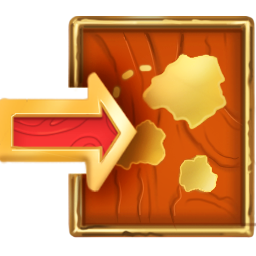
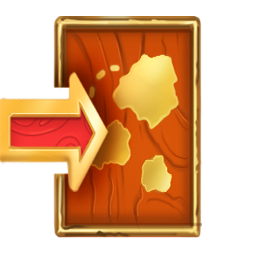
Added paranoid autoselect all option. Added new UI stone and exit-to-map symbol. Hide navigation is now on by default. Options button now shows up only in developer mode. Added new spell tiles. Updated main menu video. Small update to credits.

diff --git a/win/win32/winclisrv/GnollHackClient/GnollHackClient/Pages/Game/GameMenuPage.xaml b/win/win32/winclisrv/GnollHackClient/GnollHackClient/Pages/Game/GameMenuPage.xaml
@@ -26,13 +26,17 @@
                                         HorizontalOptions="Center" VerticalOptions="FillAndExpand"  Clicked="btnBackToGame_Clicked" />
                                 </Grid>
                             </ViewCell>
+                        </TableSection>
+                        <TableSection x:Name="OptionsSection">
                             <ViewCell>
                                 <Grid WidthRequest="320" HorizontalOptions="Center">
                                     <ff:CachedImage Source="resource://GnollHackClient.Assets.button_normal.png" WidthRequest="320" HorizontalOptions="Center" VerticalOptions="FillAndExpand" Aspect="Fill" />
                                     <Button x:Name="btnOptions" WidthRequest="320" FontFamily="Diablo" Text="Options" BackgroundColor="Transparent" TextColor="White"
-                                    HorizontalOptions="Fill" VerticalOptions="FillAndExpand"  Clicked="btnOptions_Clicked" />
+                                HorizontalOptions="Fill" VerticalOptions="FillAndExpand"  Clicked="btnOptions_Clicked" />
                                 </Grid>
                             </ViewCell>
+                        </TableSection>
+                        <TableSection x:Name="BaseSection2">
                             <ViewCell>
                                 <Grid WidthRequest="320" HorizontalOptions="Center">
                                     <ff:CachedImage Source="resource://GnollHackClient.Assets.button_normal.png" WidthRequest="320" HorizontalOptions="Center" VerticalOptions="FillAndExpand" Aspect="Fill" />

diff --git a/src/objects.c b/src/objects.c
@@ -2898,7 +2898,7 @@ SPELL("detect food",     "cyan", None, None, "Detects the location of all comest
 SPELL("clairvoyance",    "dark blue", None, None, "Grants clairvoyance",
       P_DIVINATION_SPELL,         4,   3,             0, 2, 16, A_MAX_INT_WIS_CHA, 0, 0, 100, 0, 1, NODIR, NODIR_NONE, 0, 0, 0, 0, 0, 0, 0, S1_NO_SOMATIC_COMPONENT, S2_NONE, ALL_TARGETS, AD_NONE, CLR_BLUE, OBJECT_SOUNDSET_SPELLBOOK, O1_NONE, O2_NONE, O3_NONE, O4_NONE, O5_NONE, O6_NONE),
 SPELL("detect unseen",   "violet", None, None, "Enables the caster to see invisible monsters and secret doors",
-      P_DIVINATION_SPELL,         4,   4,             0, 3, 24, A_MAX_INT_WIS_CHA, 0, 0, 100, 0, 1, NODIR, NODIR_NONE, 0, 0, 0, 0, 5, 10, 100, S1_NO_SOMATIC_COMPONENT, S2_NONE, ALL_TARGETS, AD_NONE, CLR_MAGENTA, OBJECT_SOUNDSET_SPELLBOOK, O1_NONE, O2_NONE, O3_NONE, O4_NONE, O5_NONE, O6_NONE),
+      P_DIVINATION_SPELL,         4,   4,             0, 3, 24, A_MAX_INT_WIS_CHA, 0, 0, 100, 0, 1, NODIR, NODIR_NONE, 0, 0, 0, 0, 5, 10, 100, S1_NO_SOMATIC_COMPONENT, S2_NONE, ALL_TARGETS, AD_NONE, CLR_MAGENTA, OBJECT_SOUNDSET_SPELLBOOK, O1_NONE, O2_NONE, O3_NONE, O4_NONE, O5_USES_SPELL_TILE, O6_NONE),
 SPELL("detect treasure",  "gray", None, None, "The caster senses the location of all objects on the level",
       P_DIVINATION_SPELL,         4,   5,             0, 3, 24, A_MAX_INT_WIS_CHA, 0, 0, 100, 0, 1, NODIR, NODIR_NONE, 0, 0, 0, 0, 0, 0, 0, S1_NO_SOMATIC_COMPONENT, S2_NONE, ALL_TARGETS, AD_NONE, CLR_GRAY, OBJECT_SOUNDSET_SPELLBOOK, O1_NONE, O2_NONE, O3_NONE, O4_NONE, O5_NONE, O6_NONE),
 SPELL("identify",         "bronze-plated", None, None, "Identifies an item",
@@ -2966,7 +2966,7 @@ SPELL("cure sickness",   "indigo", None, None, "Cures sickness, terminal illness
 SPELL("cure petrification",   "runic", None, None, "Cures petrification",
       P_HEALING_SPELL,            5,  5,             0, 4, 30, A_WIS, 5, 0, 100, 0, 1, IMMEDIATE, IMMEDIATE_NONE, 0, 0, 0, 0, 0, 0, 0, S1_NO_SOMATIC_COMPONENT, S2_NONE, ALL_TARGETS, AD_HEAL, CLR_BROWN, OBJECT_SOUNDSET_SPELLBOOK, O1_NONE, O2_NONE, O3_NONE, O4_NONE, O5_USES_SPELL_TILE, O6_NONE),
 SPELL("cure blindness",  "yellow", None, None, "Cures blindness",
-      P_HEALING_SPELL,            5,  2,             0, 0,  8, A_WIS, 5, 0, 100, 0, 1, IMMEDIATE, IMMEDIATE_NONE, 0, 0, 0, 0, 0, 0, 0, S1_NO_SOMATIC_COMPONENT, S2_NONE, ALL_TARGETS, AD_HEAL, CLR_YELLOW, OBJECT_SOUNDSET_SPELLBOOK, O1_NONE, O2_NONE, O3_NONE, O4_NONE, O5_NONE, O6_NONE),
+      P_HEALING_SPELL,            5,  2,             0, 0,  8, A_WIS, 5, 0, 100, 0, 1, IMMEDIATE, IMMEDIATE_NONE, 0, 0, 0, 0, 0, 0, 0, S1_NO_SOMATIC_COMPONENT, S2_NONE, ALL_TARGETS, AD_HEAL, CLR_YELLOW, OBJECT_SOUNDSET_SPELLBOOK, O1_NONE, O2_NONE, O3_NONE, O4_NONE, O5_USES_SPELL_TILE, O6_NONE),
 SPELL("minor healing",         "white", None, None, "Heals a target for 2d6 hit points",
       P_HEALING_SPELL,            5,  1,             2, -1, 3, A_WIS, 5, 0, 50, 0, 1, IMMEDIATE, IMMEDIATE_NONE, 0, 2, 6, 0, 0, 0, 0, S1_NO_SOMATIC_COMPONENT | S1_DOES_NOT_TAKE_A_TURN, S2_NONE, ALL_TARGETS, AD_HEAL, CLR_WHITE, OBJECT_SOUNDSET_SPELLBOOK, O1_NONE, O2_NONE, O3_NONE, O4_NONE, O5_USES_SPELL_TILE, O6_NONE),
 SPELL("healing",         "white", None, None, "Heals a target for 6d6 hit points",

diff --git a/win/win32/winclisrv/GnollHackClient/GnollHackClient/Pages/Game/GameMenuPage.xaml.cs b/win/win32/winclisrv/GnollHackClient/GnollHackClient/Pages/Game/GameMenuPage.xaml.cs
@@ -16,6 +16,7 @@ namespace GnollHackClient.Pages.Game
     {
         private GamePage _gamePage;
         private TableSection _developerSection;
+        private TableSection _optionsSection;
 
         public GameMenuPage(GamePage gamePage)
         {
@@ -23,8 +24,12 @@ namespace GnollHackClient.Pages.Game
 
             _gamePage = gamePage;
             _developerSection = DeveloperSection;
+            _optionsSection = OptionsSection;
             if (!App.DeveloperMode)
+            {
+                GameTableView.Root.Remove(_optionsSection);
                 GameTableView.Root.Remove(_developerSection);
+            }
         }
 
         private async void btnSave_Clicked(object sender, EventArgs e)
@@ -83,8 +88,12 @@ namespace GnollHackClient.Pages.Game
         {
             App.BackButtonPressed += BackButtonPressed;
             MainLayout.IsEnabled = true;
+            if (App.DeveloperMode && !GameTableView.Root.Contains(_optionsSection))
+                GameTableView.Root.Insert(1, _optionsSection);
+            if (!App.DeveloperMode && GameTableView.Root.Contains(_optionsSection))
+                GameTableView.Root.Remove(_optionsSection);
             if (App.DeveloperMode && !GameTableView.Root.Contains(_developerSection))
-                GameTableView.Root.Insert(1, _developerSection);
+                GameTableView.Root.Insert(3, _developerSection);
             if (!App.DeveloperMode && GameTableView.Root.Contains(_developerSection))
                 GameTableView.Root.Remove(_developerSection);
         }

diff --git a/win/win32/winclisrv/GnollHackClient/GnollHackClient/Pages/Game/SettingsPage.xaml.cs b/win/win32/winclisrv/GnollHackClient/GnollHackClient/Pages/Game/SettingsPage.xaml.cs
@@ -184,7 +184,7 @@ namespace GnollHackClient.Pages.Game
             App.BackButtonPressed += BackButtonPressed;
 
             int cursor = 0, graphics = 0, maprefresh = (int)ClientUtils.GetDefaultMapFPS(), msgnum = 0, petrows = 0;
-            bool mem = false, fps = false, gpu = GHConstants.IsGPUDefault, navbar = false, devmode = false, hpbars = false, statusbar = GHConstants.IsDefaultStatusBarClassic, pets = true, orbs = true, orbmaxhp = false, orbmaxmana = false, mapgrid = false, playermark = false, monstertargeting = false, walkarrows = true;
+            bool mem = false, fps = false, gpu = GHConstants.IsGPUDefault, navbar = GHConstants.DefaultHideNavigation, devmode = false, hpbars = false, statusbar = GHConstants.IsDefaultStatusBarClassic, pets = true, orbs = true, orbmaxhp = false, orbmaxmana = false, mapgrid = false, playermark = false, monstertargeting = false, walkarrows = true;
             bool forcemaxmsg = false, showexstatus = false, noclipmode = GHConstants.DefaultMapNoClipMode;
             //bool altnoclipmode = GHConstants.DefaultMapAlternateNoClipMode, zoomchangecenter = GHConstants.DefaultZoomChangeCenterMode;
             float generalVolume, musicVolume, ambientVolume, dialogueVolume, effectsVolume, UIVolume;

diff --git a/src/options.c b/src/options.c
@@ -829,7 +829,7 @@ initoptions_init()
     flags.end_own = FALSE;
     flags.end_top = 3;
     flags.end_around = 2;
-    flags.paranoia_bits = PARANOID_PRAY; /* old prayconfirm=TRUE */
+    flags.paranoia_bits = PARANOID_PRAY | PARANOID_AUTOALL; /* old prayconfirm=TRUE */
     flags.runmode = RUN_LEAP;
     iflags.msg_history = 20;
     /* msg_window has conflicting defaults for multi-interface binary */
@@ -1484,6 +1484,8 @@ STATIC_VAR const struct paranoia_opts {
       "yes vs y to enter a pool of water or lava" },
     { PARANOID_TRAP, "trap", 2, (const char*)0, 0,
       "yes vs y to enter into a trap" },
+    { PARANOID_AUTOALL, "autoall", 2, (const char*)0, 0,
+      "y to select all items" },
       /* for config file parsing; interactive menu skips these */
     { 0, "none", 4, 0, 0, 0 }, /* require full word match */
     { ~0, "all", 3, 0, 0, 0 }, /* ditto */

diff --git a/src/pickup.c b/src/pickup.c
@@ -3565,11 +3565,23 @@ struct obj* other_container;
                            mflags, &pick_list, PICK_ANY);
         if (!n)
             return 0;
-        for (i = 0; i < n; i++) {
+
+        for (i = 0; i < n; i++) 
+        {
             if (pick_list[i].item.a_int == 'A')
+            {
+                if (ParanoidAutoSelectAll)
+                {
+                    if (yn_query_ex(ATR_NONE, CLR_MSG_WARNING, "All Items Selected", "Are you sure to select all items?") != 'y')
+                        return 0;
+                }
+
                 loot_everything = TRUE;
+            }
             else if (pick_list[i].item.a_int == ALL_TYPES_SELECTED)
+            {
                 all_categories = TRUE;
+            }
             else
                 add_valid_menu_class(pick_list[i].item.a_int);
         }

diff --git a/include/flag.h b/include/flag.h
@@ -168,6 +168,7 @@ struct flag {
 #define PARANOID_WERECHANGE 0x0100
 #define PARANOID_WATER      0x0200
 #define PARANOID_TRAP       0x0400
+#define PARANOID_AUTOALL    0x0800
     int pickup_burden; /* maximum burden before prompt */
     int pile_limit;    /* controls feedback when walking over objects */
     char inv_order[MAX_OBJECT_CLASSES];
@@ -604,6 +605,8 @@ enum runmode_types {
 #define ParanoidWater ((flags.paranoia_bits & PARANOID_WATER) != 0)
 /* trap: accepting entry into a trap */
 #define ParanoidTrap ((flags.paranoia_bits & PARANOID_TRAP) != 0)
+/* auto-select all: accepting auto-select all */
+#define ParanoidAutoSelectAll ((flags.paranoia_bits & PARANOID_AUTOALL) != 0)
 
 /* command parsing, mainly dealing with number_pad handling;
    not saved and restored */

diff --git a/win/win32/winclisrv/GnollHackClient/GnollHackClient/App.xaml.cs b/win/win32/winclisrv/GnollHackClient/GnollHackClient/App.xaml.cs
@@ -38,7 +38,7 @@ namespace GnollHackClient
             var mainPage = new MainPage();
             var navPage = new NavigationPage(mainPage);
             MainPage = navPage;
-            App.HideAndroidNavigatioBar = Preferences.Get("HideAndroidNavigationBar", false);
+            App.HideAndroidNavigatioBar = Preferences.Get("HideAndroidNavigationBar", GHConstants.DefaultHideNavigation);
             App.DeveloperMode = Preferences.Get("DeveloperMode", GHConstants.DefaultDeveloperMode);
             App.FullVersionMode = true; // Preferences.Get("FullVersion", true);
             App.ClassicMode = Preferences.Get("ClassicMode", false);

diff --git a/src/do.c b/src/do.c
@@ -5358,7 +5358,15 @@ int retry;
             if (pick_list[i].item.a_int == ALL_TYPES_SELECTED)
                 all_categories = TRUE;
             else if (pick_list[i].item.a_int == 'A')
+            {
+                if (ParanoidAutoSelectAll)
+                {
+                    if (yn_query_ex(ATR_NONE, CLR_MSG_WARNING, "All Items Selected", "Are you sure to drop all items?") != 'y')
+                        return 0;
+                }
+
                 drop_everything = TRUE;
+            }
             else
                 add_valid_menu_class(pick_list[i].item.a_int);
         }

diff --git a/win/win32/winclisrv/GnollHackCommon/GHConstants.cs b/win/win32/winclisrv/GnollHackCommon/GHConstants.cs
@@ -1203,6 +1203,7 @@ namespace GnollHackCommon
         public const bool DefaultMapNoClipMode = false;
         public const bool DefaultMapAlternateNoClipMode = false;
         public const bool DefaultZoomChangeCenterMode = false;
+        public const bool DefaultHideNavigation = true;
     }
 
 
